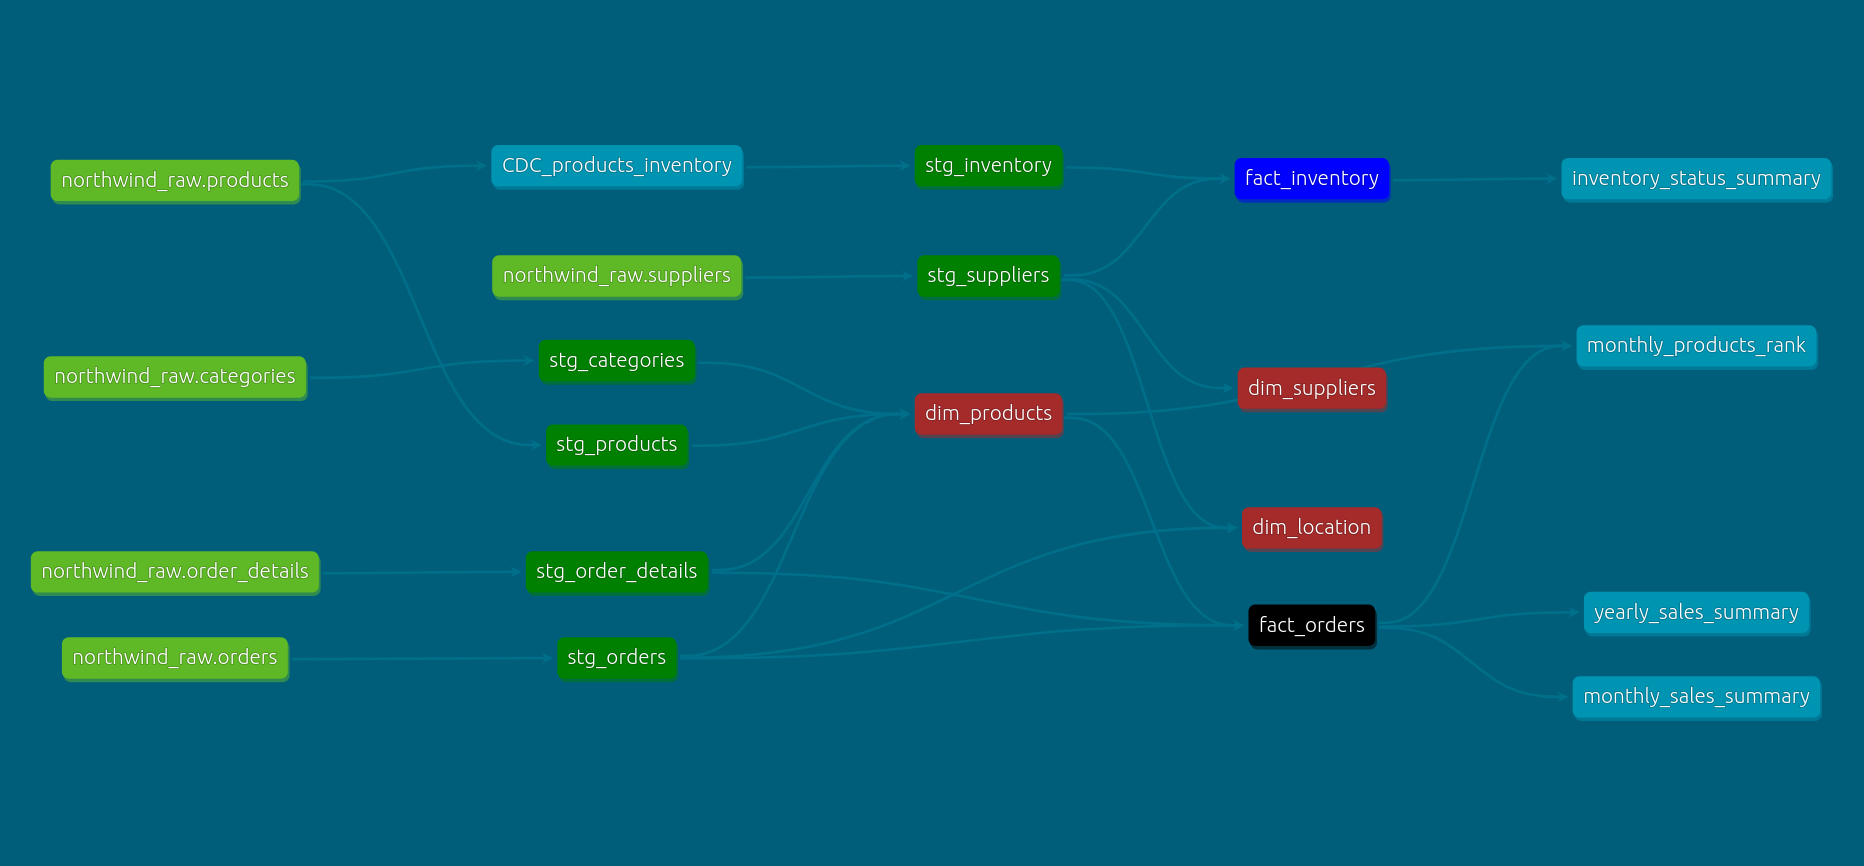
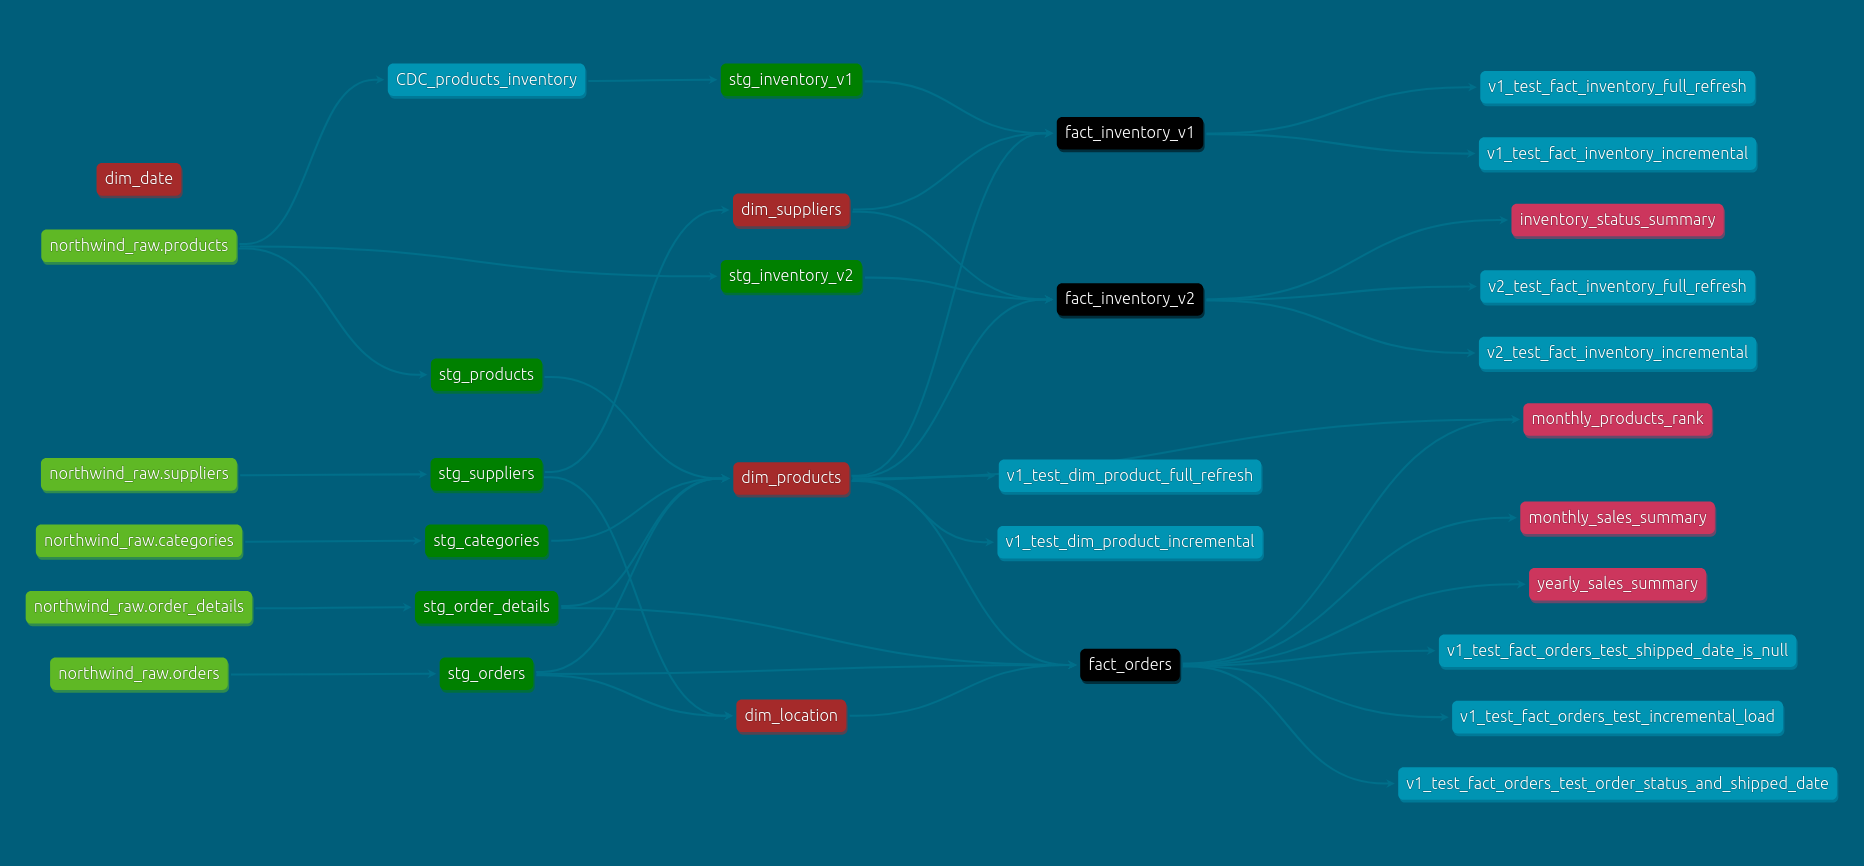
new readme

diff --git a/README.md b/README.md
@@ -1,47 +1,73 @@
+# Northwind-dbt 🔨
+
+
+
 > **DISCLAIMER:** This project uses [northwind](https://docs.yugabyte.com/preview/sample-data/northwind/) as source data, which is a publicly avaiable dataset.  
-# Project Objectives
+
+
+
+# 🤓 What is special about this?
+
+- **Unit tests 📑**: Quality `data tests`, and `unit tests` to simulate business scenarious.            
+
+- **Data Tests 📑**: Simple, but save these errors in a seperate table to curate them later.
+
+- **Models Versioning ✨**: Two versioned models, `stg_inventory` and `fact_inventory`.
+
+- **CI/CD 👾**: Initialize test-environment, build models, run models in `incremental_mode`, run `data tests`, and run `unit tests` in isolated environment before merging into `main` branch - using `Github Actions`.
+
+- **Enforced Schema ✊**: Prevents unexpected `data quality` issues caused by changes in the source schema.
+
+- **Slowly Chaning Dimension (SCD) type 2 🐢**: Products SCD but with old way
+
+
+
+
+# 🤔 Project Objectives
 This project aims to craft a modern data warehouse solution that:
-- Tracks orders by product, cateory and location.  
-- Tracks product price chaneges using Slowly Chaning Dimension (SCD) type 2.
-- Tracks Inventory data to conduct Safety stock analysis in the future.
-# Business Logic
-- `Cutomer names`, `products name`, `cateories`, `location data` are consistent a cross all sources.
+- 🤖 Track `orders` by `product`, `cateory` and `location`.  
+- 🤖 Track `product price chaneges effect on orders`.
+- 🤖 Track `Inventory` data to conduct Safety stock analysis in the future.
 
-
-
-# Data Lineage
-![DAG](./readme_assets/dbt-dag.png)
 
 
 
 # ERD
+
+This is how I modeled the data—guided by **Ralph Kimball’s principles** in **The Data Warehouse Toolkit** 📖.
+
+
 ```mermaid
 erDiagram
-    fact_inventory ||--o{ dim_products: ""
-    fact_inventory ||--o{ dim_suppliers: ""
-    fact_orders ||--o{ dim_location: ""
-    fact_orders ||--o{ dim_products: ""
-    
+    fact_inventory ||--o{ dim_products: "stores"
+    fact_inventory ||--o{ dim_suppliers: "supplied_by"
+    fact_inventory ||--o{ dim_date: "recorded_at"
+    fact_orders ||--o{ dim_location: "ordered_from"
+    fact_orders ||--o{ dim_products: "ordered_what"
+    fact_orders ||--o{ dim_date: "ordered_at"
+
     fact_orders {
-        transaction_id	text       PK
-        order_id	    integer     
-        order_date	    date
-        required_date	date
-        shipped_date	date
-        location_sk	    text        FK
-        product_sk	    text        FK
-        unit_price	    numeric
-        quantity	    integer
-        discount	    numeric
+        transaction_sk  text    PK
+        order_sk        int
+        order_id        int
+        order_date      date
+        required_date   date
+        order_status    varchar
+        shipped_date    date
+        location_sk     text
+        product_sk      text
+        unit_price      numeric
+        quantity        int
+        discount        numeric
     }
 
     fact_inventory {
+        record_id	    text        PK
         product_sk	    text        FK
         supplier_sk	    text        FK
         units_in_stock	integer
         units_on_order	integer
         reorder_level	integer
-        record_id	    text        PK
         updated_at	    timestamp
     }
 
@@ -69,7 +95,8 @@ erDiagram
 
 
     dim_suppliers{
-        supplier_sk     text                PK
+        supplier_sk     text     PK
+        supplier_id     int
         company_name    text                
         contact_name    text                
         contact_title   text                
@@ -78,34 +105,49 @@ erDiagram
         fax     	    charactervarying                
         homepage        text                
     }
-```
-# dbt Model Structure
-``` bash
-> tree ./northwind/models 
-./northwind/models
-├── db_staging
-│   ├── db_staging.yaml
-│   ├── stg_categories.sql
-│   ├── stg_inventory.sql
-│   ├── stg_order_details.sql
-│   ├── stg_orders.sql
-│   ├── stg_products.sql
-│   └── stg_suppliers.sql
-├── groups.yml
-├── marts
-│   ├── dimensions
-│   │   ├── dim_category.sql
-│   │   ├── dimensions.yml
-│   │   ├── dim_location.sql
-│   │   ├── dim_products.sql
-│   │   └── dim_suppliers.sql
-│   ├── inventory
-│   │   ├── fact_inventory.sql
-│   │   └── inventory.yml
-│   └── orders
-│       ├── fact_orders.sql
-│       └── orders.yaml
-└── source.yml
 
-5 directories, 18 files
+    dim_date {
+        date_day                        date    PK
+        prior_date_day                  date
+        next_date_day                   date
+        prior_year_date_day             date
+        prior_year_over_year_date_day   date
+        day_of_week                     integer
+        day_of_week_name                text
+        day_of_week_name_short          text
+        day_of_month                    int
+        day_of_year                     int
+        week_start_date                 date
+        week_end_date                   date
+        prior_year_week_start_date      date
+        prior_year_week_end_date        date
+        week_of_year                    integer
+        iso_week_start_date             date
+        iso_week_end_date               date
+        prior_year_iso_week_start_date  date
+        prior_year_iso_week_end_date    date
+        iso_week_of_year                integer
+        prior_year_week_of_year         integer
+        prior_year_iso_week_of_year     integer
+        month_of_year                   integer
+        month_name                      text
+        month_name_short                text
+        month_start_date                date
+        month_end_date                  date
+        prior_year_month_start_date     date
+        prior_year_month_end_date       date
+        quarter_of_year                 integer
+        quarter_start_date              date
+        quarter_end_date                date
+        year_number                     integer
+        year_start_date                 date
+        year_end_date                   date
+    }
 ```
+
+
+
+
+# 🤯 Data Lineage
+> **🤸 Note** the two versions of `stg_inventory` and `fact_inventory`, `unit tests` are also included.                 
+![DAG](./readme_assets/dbt-dag.png)
